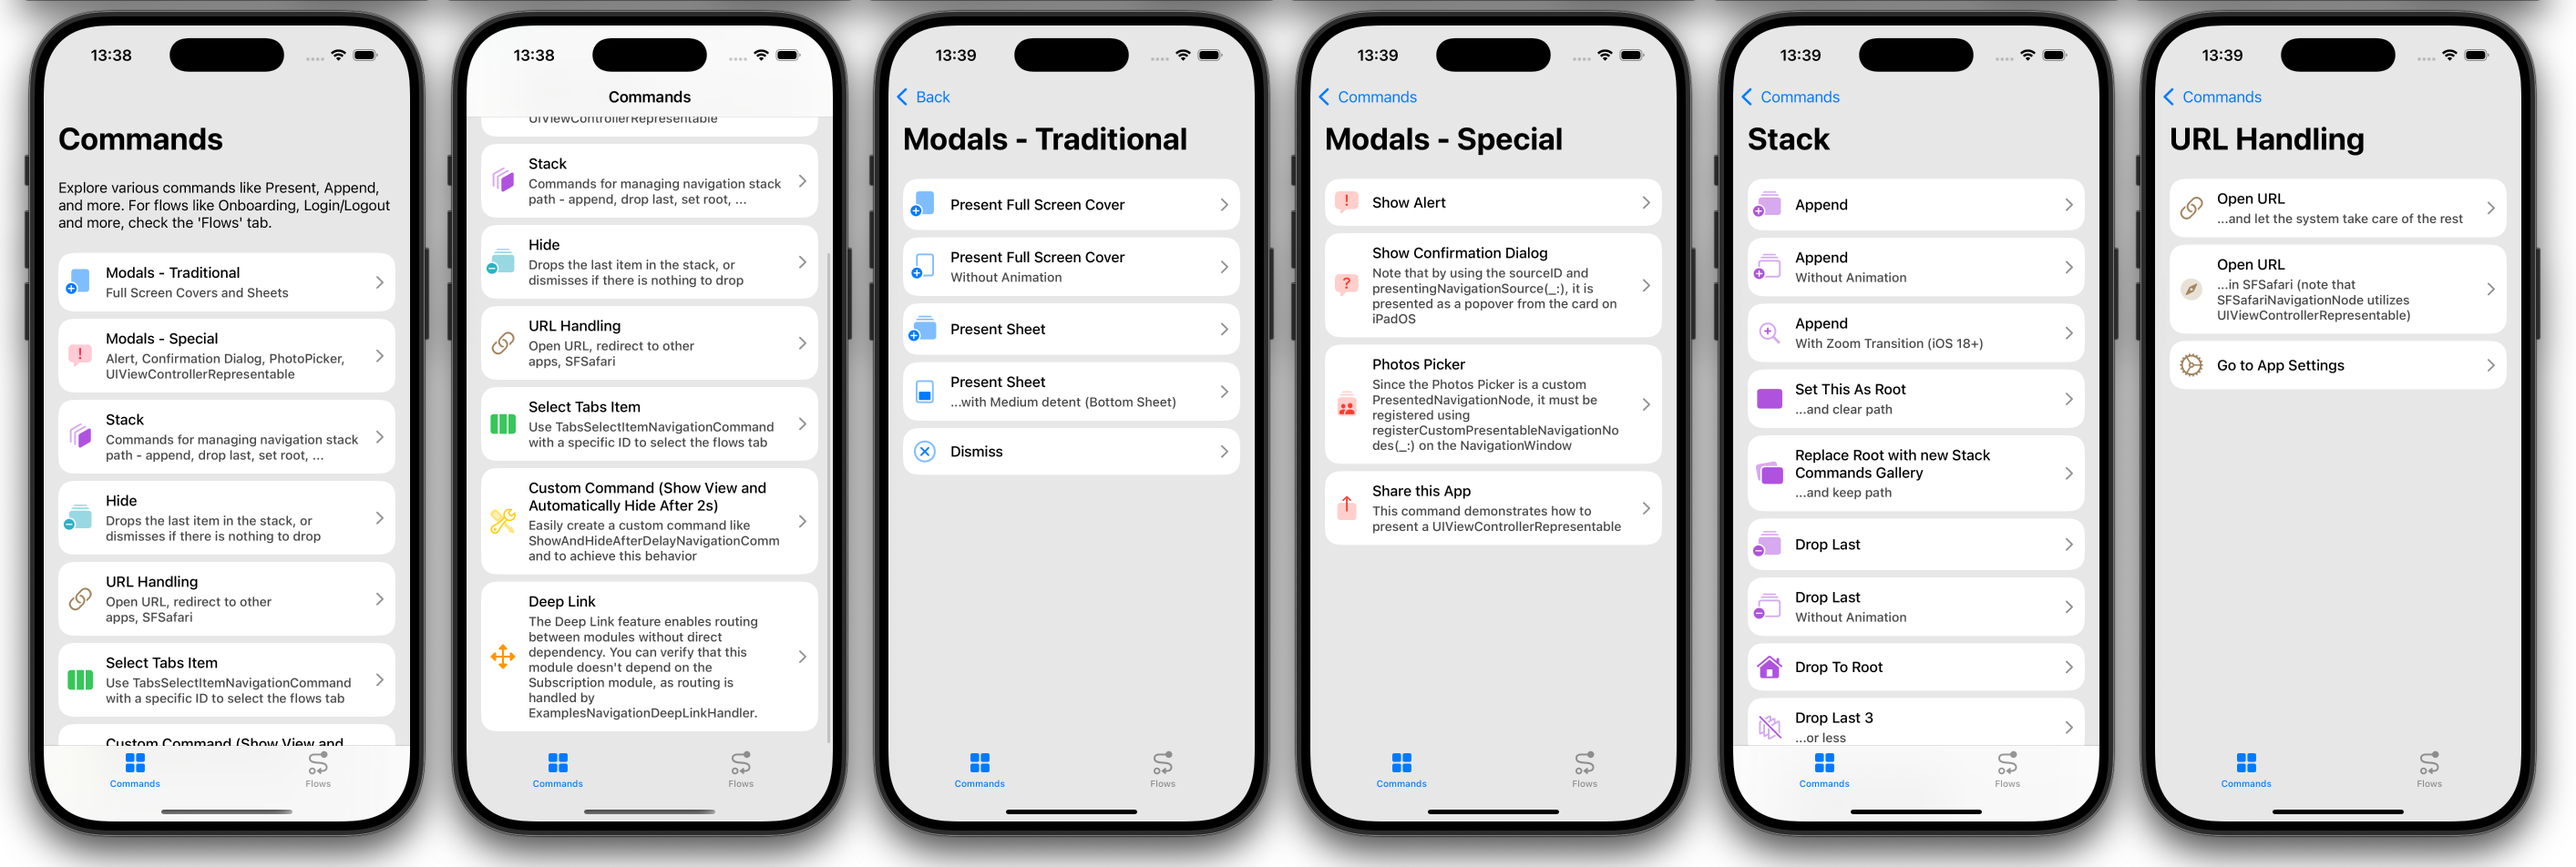
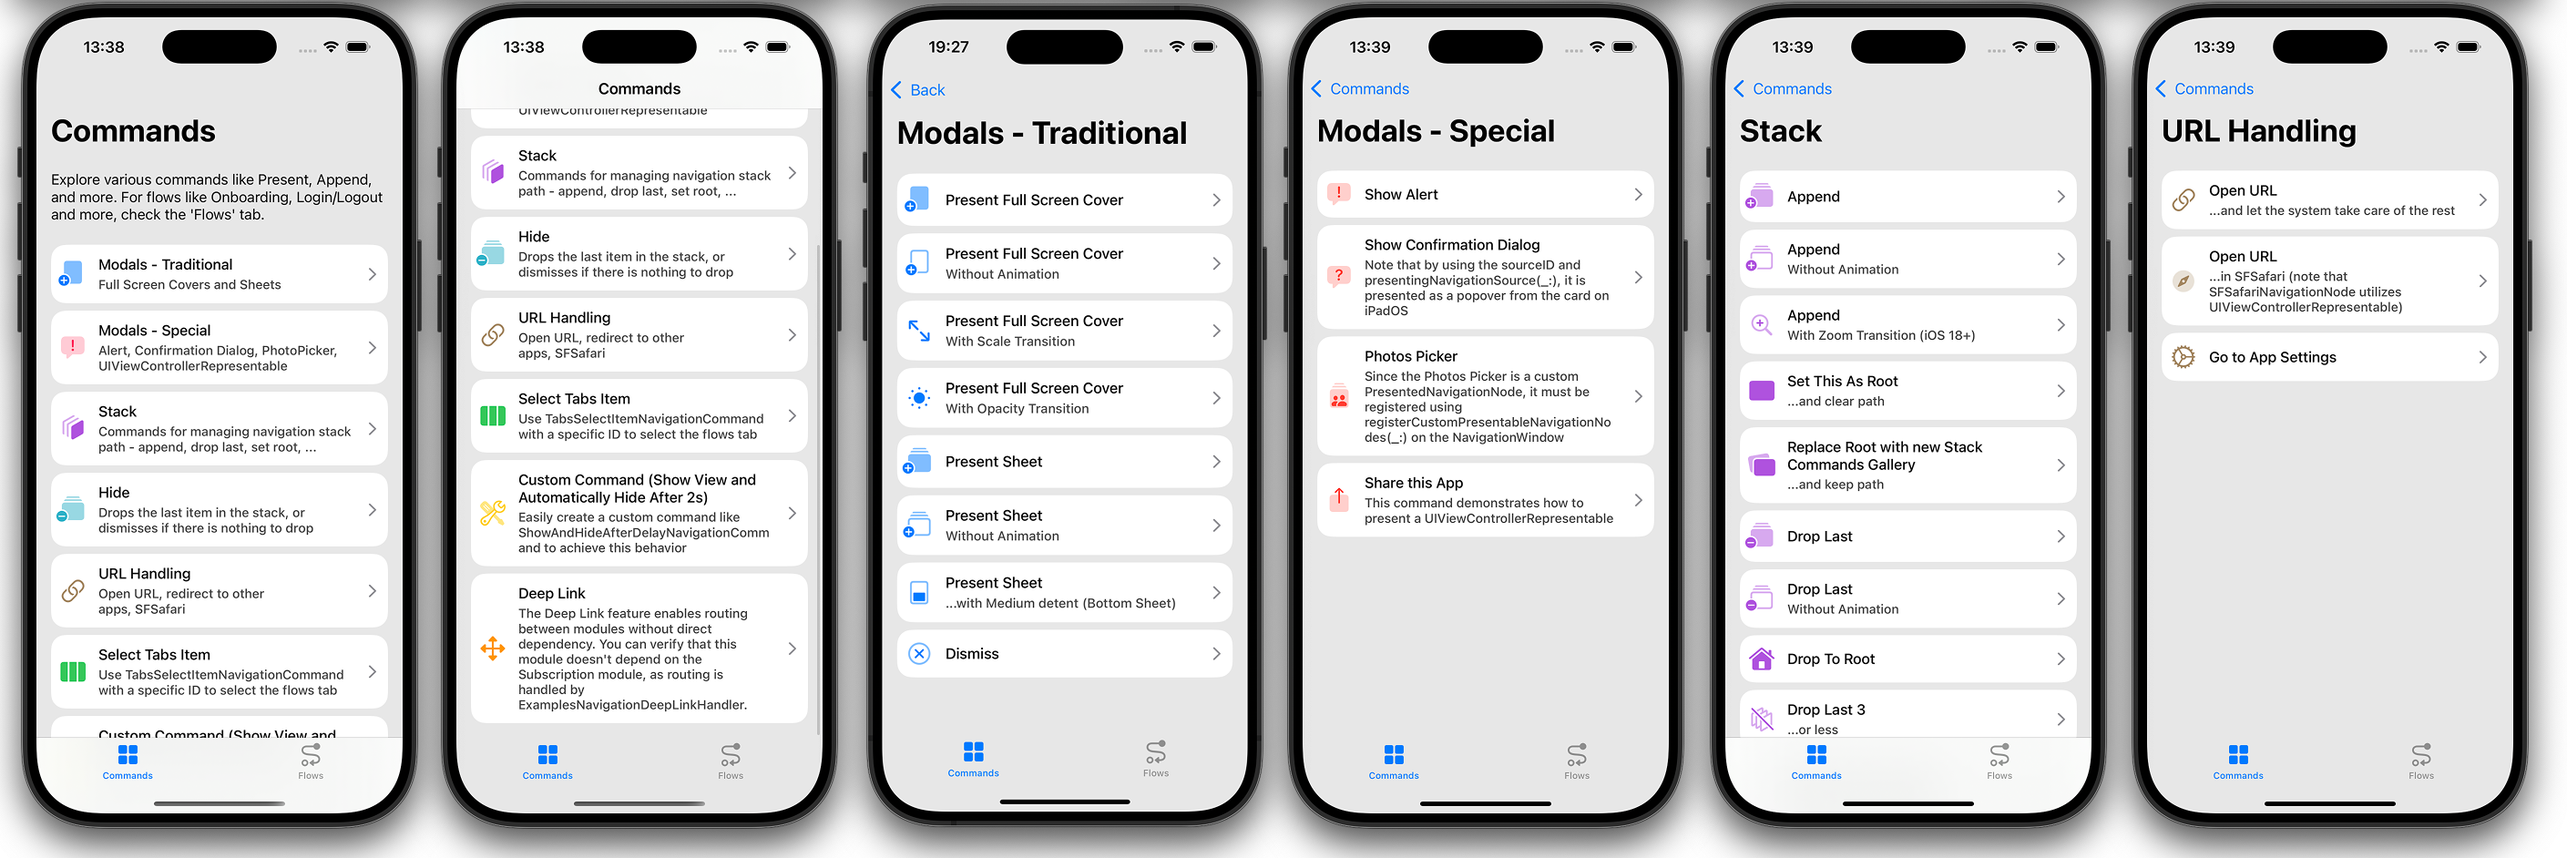
Add fullScreenCover transitions support

diff --git a/Examples/Modules/ActionableList/Sources/ActionableList/Data/Factories/Commands/ModalsTraditionalActionableListDataFactory.swift b/Examples/Modules/ActionableList/Sources/ActionableList/Data/Factories/Commands/ModalsTraditionalActionableListDataFactory.swift
@@ -17,6 +17,8 @@ struct ModalsTraditionalActionableListDataFactory: ActionableListDataFactory {
         [
             presentFullScreenCoverItem,
             presentFullScreenCoverWithoutAnimationItem,
+            presentFullScreenCoverWithScaleTransitionItem,
+            presentFullScreenCoverWithOpacityTransitionItem,
             presentSheetItem,
             presentSheetWithoutAnimationItem,
             presentBottomSheetItem,
@@ -78,6 +80,58 @@ struct ModalsTraditionalActionableListDataFactory: ActionableListDataFactory {
                         )
                     ),
                     animated: false
+                )
+            }
+        )
+    }
+
+    private var presentFullScreenCoverWithScaleTransitionItem: ActionableListItem {
+        .new(
+            viewModel: ActionableListItemView.ViewModel(
+                symbolName: "arrow.up.left.and.arrow.down.right",
+                accentColor: .blue,
+                title: "Present Full Screen Cover",
+                subtitle: "With Scale Transition"
+            ),
+            makeCommand: {
+                .present(
+                    .fullScreenCover(
+                        .stacked(
+                            ActionableListNavigationModel(
+                                inputData: .default,
+                                deepLinkForwarderService: deepLinkForwarderService,
+                                notificationsService: notificationsService,
+                                flagsRepository: flagsRepository
+                            )
+                        ),
+                        transition: .scale.animation(.default)
+                    )
+                )
+            }
+        )
+    }
+
+    private var presentFullScreenCoverWithOpacityTransitionItem: ActionableListItem {
+        .new(
+            viewModel: ActionableListItemView.ViewModel(
+                symbolName: "sun.min.fill",
+                accentColor: .blue,
+                title: "Present Full Screen Cover",
+                subtitle: "With Opacity Transition"
+            ),
+            makeCommand: {
+                .present(
+                    .fullScreenCover(
+                        .stacked(
+                            ActionableListNavigationModel(
+                                inputData: .default,
+                                deepLinkForwarderService: deepLinkForwarderService,
+                                notificationsService: notificationsService,
+                                flagsRepository: flagsRepository
+                            )
+                        ),
+                        transition: .opacity.animation(.default)
+                    )
                 )
             }
         )

diff --git a/Sources/SwiftUINavigation/Models/Presented/FullScreenCover/FullScreenCoverPresentedNavigationModel.swift b/Sources/SwiftUINavigation/Models/Presented/FullScreenCover/FullScreenCoverPresentedNavigationModel.swift
@@ -5,9 +5,15 @@ public struct FullScreenCoverPresentedNavigationModel: PresentedNavigationModel 
 
     public let model: any NavigationModel
     public let sourceID: String? = nil
+    public let transition: AnyTransition?
 
-    init(model: any NavigationModel) {
+    init(model: any NavigationModel, transition: AnyTransition?) {
         self.model = model
+        if #available(iOS 17.0, *) {
+            self.transition = transition
+        } else {
+            self.transition = nil
+        }
     }
 
     public static func presenterResolvedViewModifier(
@@ -20,10 +26,55 @@ public struct FullScreenCoverPresentedNavigationModel: PresentedNavigationModel 
                 isPresented: makeIsPresentedBinding(presentedModel: presentedModel, sourceID: sourceID),
                 content: {
                     if let presentedModel = presentedModel as? Self {
-                        NavigationModelResolvedView(model: presentedModel.model)
+                        if #available(iOS 17.0, *), let transition = presentedModel.transition {
+                            FullScreenCoverWithTransitionContentView(
+                                transition: transition,
+                                content: {
+                                    NavigationModelResolvedView(model: presentedModel.model)
+                                }
+                            )
+                        } else {
+                            NavigationModelResolvedView(model: presentedModel.model)
+                        }
                     }
                 }
             )
+    }
+
+    @available(iOS 17.0, *)
+    struct FullScreenCoverWithTransitionContentView<Content: View>: View {
+
+        @Environment(\.dismiss) var dismiss
+        @State private var isVisible = false
+
+        var transition: AnyTransition
+        @ViewBuilder var content: () -> Content
+
+        var body: some View {
+            ZStack {
+                Color.clear
+                resolvedContent
+            }
+                .onAppear { isVisible = true }
+                .onDisappear { isVisible = false }
+                .presentationBackground(.clear)
+                .customDismiss {
+                    withAnimation {
+                        isVisible = false
+                    } completion: {
+                        dismiss()
+                    }
+                }
+        }
+
+        @ViewBuilder
+        private var resolvedContent: some View {
+            if isVisible {
+                content()
+                    .transition(transition)
+            }
+        }
+
     }
 
 }

diff --git a/Sources/SwiftUINavigation/Environment/EnvironmentValues+.swift b/Sources/SwiftUINavigation/Environment/EnvironmentValues+.swift
@@ -4,6 +4,7 @@ public extension EnvironmentValues {
     @Entry var stackNavigationNamespace: Namespace.ID?
     @Entry var registeredCustomPresentableNavigationModels = [any PresentedNavigationModel.Type]()
     @Entry var navigationEnvironmentTriggerHandler = DefaultNavigationEnvironmentTriggerHandler()
+    @Entry var customDismiss: (() -> Void)?
 }
 
 extension View {
@@ -23,5 +24,9 @@ extension View {
 
     public func navigationEnvironmentTriggerHandler(_ handler: DefaultNavigationEnvironmentTriggerHandler) -> some View {
         environment(\.navigationEnvironmentTriggerHandler, handler)
+    }
+
+    public func customDismiss(_ handler: @escaping () -> Void) -> some View {
+        environment(\.customDismiss, handler)
     }
 }

diff --git a/Sources/SwiftUINavigation/NavigationEnvironmentTrigger/Handler/DefaultNavigationEnvironmentTriggerHandler.swift b/Sources/SwiftUINavigation/NavigationEnvironmentTrigger/Handler/DefaultNavigationEnvironmentTriggerHandler.swift
@@ -11,7 +11,11 @@ open class DefaultNavigationEnvironmentTriggerHandler: @unchecked Sendable {
         } else if #available(iOS 17.0, macOS 14.0, *), let dismissWindowTrigger = trigger as? DismissWindowNavigationEnvironmentTrigger {
             environment.dismissWindow(id: dismissWindowTrigger.id)
         } else if trigger is DismissNavigationEnvironmentTrigger {
-            environment.dismiss()
+            if let customDismiss = environment.customDismiss {
+                customDismiss()
+            } else {
+                environment.dismiss()
+            }
         } else {
             print("Unknown trigger: \(trigger)")
         }

diff --git a/Sources/SwiftUINavigation/Models/Presented/PresentedNavigationModel+Static.swift b/Sources/SwiftUINavigation/Models/Presented/PresentedNavigationModel+Static.swift
@@ -1,7 +1,12 @@
+import SwiftUI
+
 #if os(iOS)
 public extension PresentedNavigationModel where Self == FullScreenCoverPresentedNavigationModel {
-    static func fullScreenCover(_ model: any NavigationModel) -> FullScreenCoverPresentedNavigationModel {
-        FullScreenCoverPresentedNavigationModel(model: model)
+    static func fullScreenCover(
+        _ model: any NavigationModel,
+        transition: AnyTransition? = nil
+    ) -> FullScreenCoverPresentedNavigationModel {
+        FullScreenCoverPresentedNavigationModel(model: model, transition: transition)
     }
 }
 #endif

diff --git a/Sources/SwiftUINavigation/Command/Predefined/PresentOnGivenModelNavigationCommand.swift b/Sources/SwiftUINavigation/Command/Predefined/PresentOnGivenModelNavigationCommand.swift
@@ -12,7 +12,14 @@ public struct PresentOnGivenModelNavigationCommand: NavigationCommand {
 
     public init(presentedModel: any PresentedNavigationModel, animated: Bool = true) {
         self.presentedModel = presentedModel
-        self.animated = animated
+        self.animated = {
+            if let presentedModel = presentedModel as? FullScreenCoverPresentedNavigationModel,
+            presentedModel.transition != nil {
+                false
+            } else {
+                animated
+            }
+        }()
     }
 
 }

diff --git a/Sources/SwiftUINavigation/Command/Predefined/DismissNavigationCommand.swift b/Sources/SwiftUINavigation/Command/Predefined/DismissNavigationCommand.swift
@@ -4,7 +4,7 @@ public struct DismissNavigationCommand: NavigationCommand {
         guard let nearestModelWhichCanPresent = model.nearestModelWhichCanPresent else { return }
         perform(
             animated: animated,
-            action: { nearestModelWhichCanPresent.parent?.presentedModel = nil }
+            action: { nearestModelWhichCanPresent.sendEnvironmentTrigger(DismissNavigationEnvironmentTrigger()) }
         )
     }
 

diff --git a/README.md b/README.md
@@ -26,7 +26,8 @@ If you find this repository helpful, feel free to give it a ⭐ or share it with
 - ✅ You can choose any architecture that fits your needs—MV, MVVM, or even TCA
 - ✅ Fully customizable and extendable to fit your specific needs
 - ✅ Inspired by the well-known Coordinator pattern but without the hassle of manually managing parent-child relationships
-- ✅ Supports iOS 16 and later—with zoom transition on the stack available starting from iOS 18  
+- ✅ Supports iOS 16 and later
+- ✅ Supports custom `fullScreenCover` transitions (e.g., `scale`, `opacity`) from iOS 17 and stack transitions (e.g., `zoom`) from iOS 18
 - ✅ Supports iPadOS 16, macOS 13, and Mac Catalyst 16 as well – optimized for multi-window experiences 
 - ✅ Enables calling environment actions, such as `requestReview`
 - ✅ Supports backward compatibility with UIKit via `UIViewControllerRepresentable` – easily present `SFSafariViewController` or `UIActivityViewController`
@@ -625,6 +626,8 @@ final class ProfileNavigationModel {
     func showEditor() {
         // Present fullScreenCover
         execute(.present(.fullScreenCover(.stacked(ProfileEditorNavigationModel()))))
+        // Present fullScreenCover with opacity transition
+        execute(.present(.fullScreenCover(.stacked(ProfileEditorNavigationModel()), transition: .opacity.animation(.default))))
         // Present sheet
         execute(.present(.sheet(.stacked(ProfileEditorNavigationModel()))))
         // Present sheet with editor and pushed connected services detail from the editor
@@ -654,7 +657,7 @@ struct ProfileView: View {
 
 #### Predefined PresentedNavigationModels
 - **`.fullScreenCover`/`FullScreenCoverPresentedNavigationModel`**  
-  Displays a full-screen modal, similar to `fullScreenCover` in SwiftUI. If you want to wrap a newly presented Model into a stack Model, use `.stacked` or `DefaultStackRootNavigationModel`.
+  Displays a full-screen modal, similar to `fullScreenCover` in SwiftUI. If you want to wrap a newly presented Model into a stack Model, use `.stacked` or `DefaultStackRootNavigationModel`. On iOS 17+ you can pass custom `transition`.
 - **`.sheet`/`SheetPresentedNavigationModel`**  
   Displays a sheet, similar to `sheet` in SwiftUI (you can adjust the detents to show it as a bottom sheet). If you want to wrap a newly presented `NavigationModel` into a stack Model, use `.stacked` or `DefaultStackRootNavigationModel`.
 - **`.alert`/`AlertPresentedNavigationModel`**  
@@ -801,7 +804,9 @@ When creating a custom container view, like in [`SegmentedTabsNavigationModel` i
 <details>
 <summary>Click here to see more 👈</summary>
 
-Custom transitions like zoom are supported since iOS 18+ for Stack (see [Examples App](#Explore-Examples-App)).
+Custom `fullScreenCover` transitions, such as `opacity`, `scale`, or custom transitions, are supported in iOS 17+ and can be passed to `fullScreenCover(_, transition:)`. Make sure to include an `animation` (e.g. `opacity.animation(.default)`). For in-app usage, check out the [Examples App](#Explore-Examples-App).
+
+Custom stack transitions like zoom are supported since iOS 18+ (see [Examples App](#Explore-Examples-App)).
 
 </details>
 
